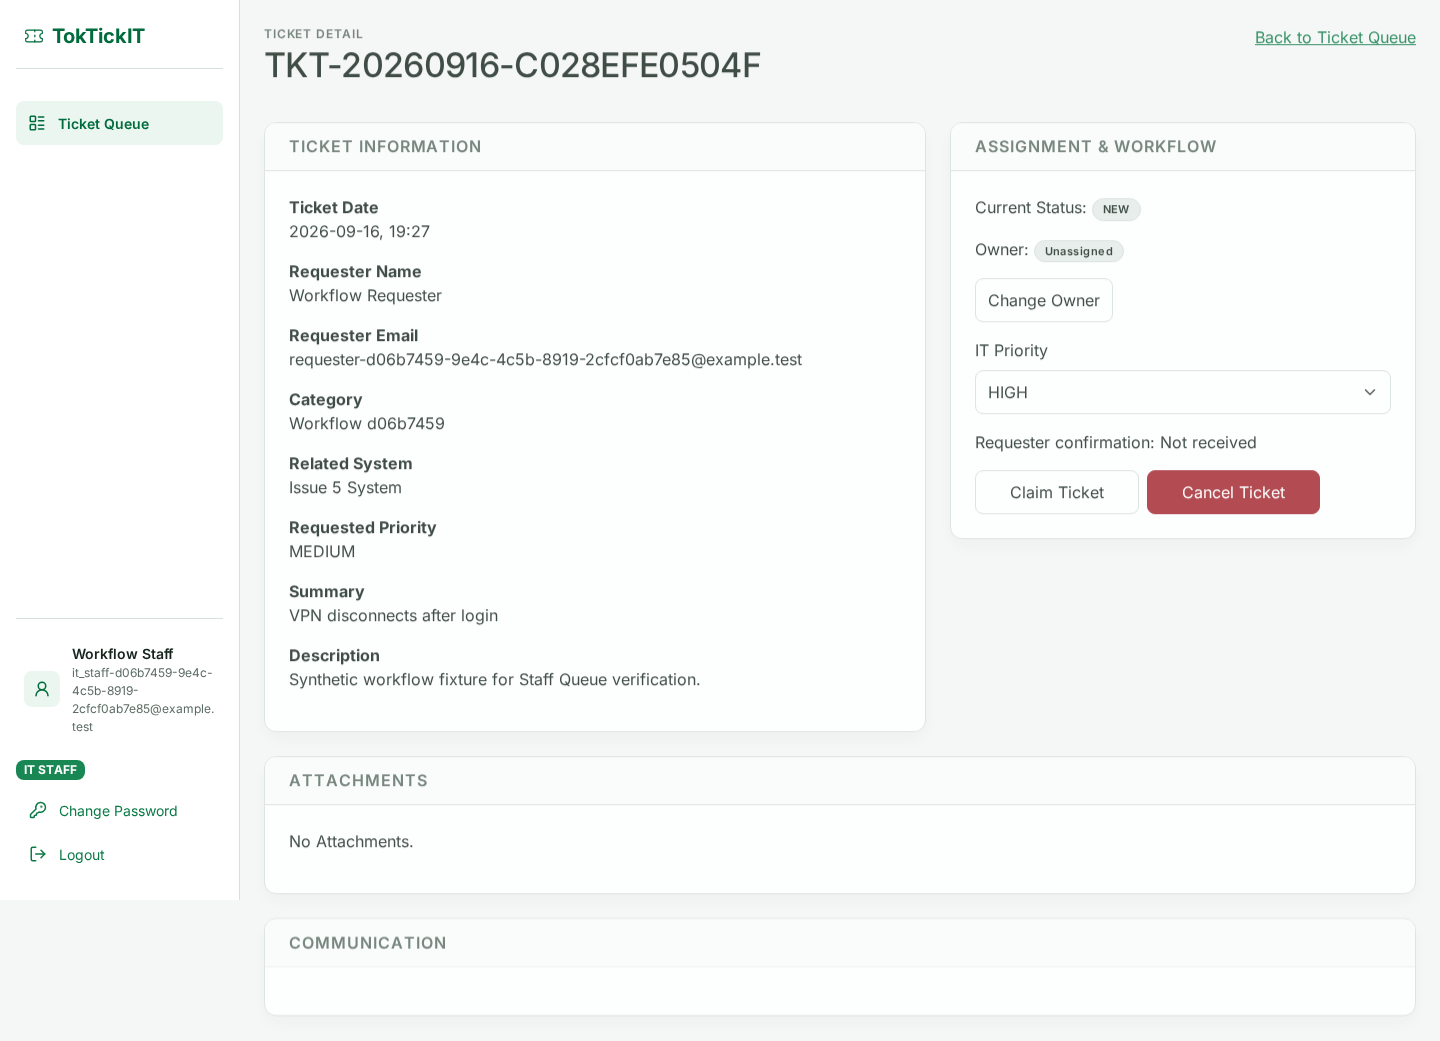
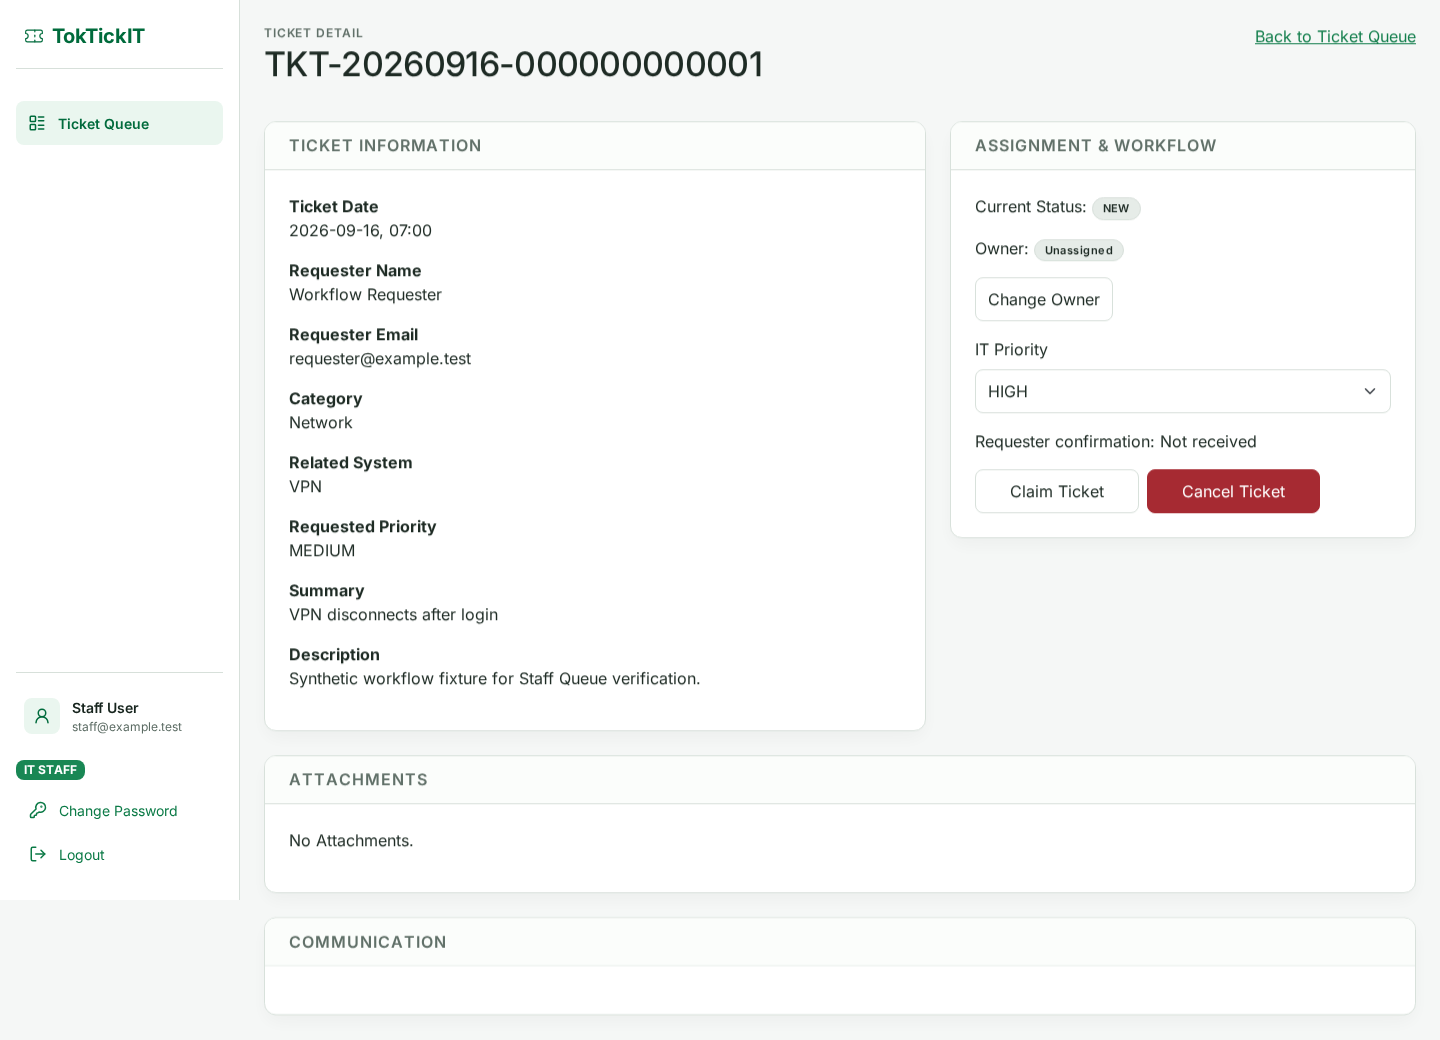
fix(e2e): mock staff queue and detail in responsive visual tests

diff --git a/e2e/lab-03/responsive-visual.spec.ts b/e2e/lab-03/responsive-visual.spec.ts
@@ -1,37 +1,10 @@
 import { expect, test, type Page } from "@playwright/test";
-import { createStaffFixture, loginStaffFixture } from "./staff-fixture.js";
 
 const VIEWPORTS = [
   { width: 1440, height: 900 },
   { width: 820, height: 1180 },
   { width: 390, height: 844 },
 ] as const;
-
-for (const viewport of VIEWPORTS) {
-  test(`RESP-03 Queue table/cards and filter controls ${viewport.width} @issue-5`, async ({ page }) => {
-    const fixture = await createStaffFixture(12);
-    try {
-      await page.setViewportSize(viewport);
-      await loginStaffFixture(page, fixture);
-      await expect(page.getByText("Loading Tickets", { exact: true })).toHaveCount(0);
-      await page.getByRole("button", { name: "Filters (2)" }).click();
-      await page.getByLabel("Category", { exact: true }).selectOption(String(fixture.category.id));
-      await page.getByRole("button", { name: "Apply", exact: true }).click();
-      if (viewport.width === 1440) await expect(page.getByRole("table", { name: "Ticket Queue" })).toBeVisible();
-      else { await expect(page.getByRole("table", { name: "Ticket Queue" })).toBeHidden(); await expect(page.getByRole("link", { name: /^Open Ticket/ }).first()).toBeVisible(); }
-      await assertNoHorizontalOverflow(page);
-      await page.screenshot({ path: `docs/lab-03/evidence/screenshots/staff-queue/queue-${viewport.width}.png`, fullPage: true });
-      await page.getByLabel("Search Tickets").fill("No matching synthetic Ticket");
-      await expect(page.getByText(/No Tickets match your search/)).toBeVisible();
-      await assertNoHorizontalOverflow(page);
-      await page.screenshot({ path: `docs/lab-03/evidence/screenshots/staff-queue/no-results-${viewport.width}.png`, fullPage: true });
-      await page.goto(`/staff/tickets/${fixture.tickets[0].publicId}`);
-      await expect(page.getByRole("button", { name: "Claim Ticket" })).toBeVisible();
-      await assertNoHorizontalOverflow(page);
-      await page.screenshot({ path: `docs/lab-03/evidence/screenshots/staff-ticket-detail/unassigned-${viewport.width}.png`, fullPage: true });
-    } finally { await fixture.dispose(); }
-  });
-}
 
 const STAFF_USER = {
   publicId: "e2e-staff",
@@ -95,14 +68,25 @@ const CORS_HEADERS = {
   "Access-Control-Allow-Credentials": "true",
   "Access-Control-Allow-Headers": "Content-Type, Authorization",
   "Access-Control-Allow-Methods": "GET,POST,OPTIONS",
+  "Access-Control-Expose-Headers": "X-Pagination",
 };
 
-async function fulfillAuth(route: import("@playwright/test").Route, status: number, body: unknown): Promise<void> {
+async function fulfillAuth(
+  route: import("@playwright/test").Route,
+  status: number,
+  body: unknown,
+  extraHeaders: Record<string, string> = {},
+): Promise<void> {
   if (route.request().method() === "OPTIONS") {
-    await route.fulfill({ status: 204, headers: CORS_HEADERS });
+    await route.fulfill({ status: 204, headers: { ...CORS_HEADERS, ...extraHeaders } });
     return;
   }
-  await route.fulfill({ status, contentType: "application/json", headers: CORS_HEADERS, body: JSON.stringify(body) });
+  await route.fulfill({
+    status,
+    contentType: "application/json",
+    headers: { ...CORS_HEADERS, ...extraHeaders },
+    body: JSON.stringify(body),
+  });
 }
 
 async function stubAuth(page: Page, user = STAFF_USER): Promise<void> {
@@ -171,6 +155,131 @@ async function stubRequesterPages(page: Page): Promise<void> {
     }
 
     await fulfillAuth(route, 404, { code: "NOT_FOUND" });
+  });
+}
+
+const STAFF_CATEGORY = { id: 4, name: "Network" };
+
+const STAFF_TICKETS = Array.from({ length: 12 }, (_, index) => ({
+  publicId: `synthetic-ticket-${index + 1}`,
+  ticketNumber: `TKT-20260916-${String(index + 1).padStart(12, "0")}`,
+  requesterName: "Workflow Requester",
+  categoryId: STAFF_CATEGORY.id,
+  categoryName: STAFF_CATEGORY.name,
+  relatedSystemId: 5,
+  relatedSystemName: "VPN",
+  summary: index === 0 ? "VPN disconnects after login" : `Support request ${index + 1}`,
+  requestedPriority: "MEDIUM" as const,
+  itPriority: index % 2 ? ("MEDIUM" as const) : ("HIGH" as const),
+  currentStatus: "NEW" as const,
+  owner: null,
+  createdAt: "2026-09-16T00:00:00.000Z",
+  updatedAt: "2026-09-16T00:00:00.000Z",
+}));
+
+const STAFF_TICKET_DETAIL = {
+  ...STAFF_TICKETS[0],
+  description: "Synthetic workflow fixture for Staff Queue verification.",
+  requesterEmail: "requester@example.test",
+  requesterResolutionConfirmedAt: null,
+  createdBy: "issue5-e2e",
+  updatedBy: "issue5-e2e",
+  deleted: false,
+  attachments: [],
+};
+
+async function stubStaffQueuePages(page: Page): Promise<void> {
+  await stubAuth(page, STAFF_USER);
+  await page.route("**/api/**", async (route) => {
+    const request = route.request();
+    if (request.method() === "OPTIONS") {
+      await route.fulfill({ status: 204, headers: CORS_HEADERS });
+      return;
+    }
+
+    const url = new URL(request.url());
+    if (url.pathname === "/api/auth/refresh") {
+      await fulfillAuth(route, 200, { accessToken: "e2e-memory-token", expiresIn: 600 });
+      return;
+    }
+    if (url.pathname === "/api/auth/me") {
+      await fulfillAuth(route, 200, STAFF_USER);
+      return;
+    }
+    if (url.pathname === "/api/categories") {
+      await fulfillAuth(route, 200, [STAFF_CATEGORY]);
+      return;
+    }
+    if (url.pathname === "/api/related-systems") {
+      await fulfillAuth(route, 200, [{ id: 5, name: "VPN" }]);
+      return;
+    }
+    if (url.pathname === "/api/users/assignable") {
+      await fulfillAuth(route, 200, [{ publicId: STAFF_USER.publicId, name: STAFF_USER.name, role: STAFF_USER.role }]);
+      return;
+    }
+    if (url.pathname === "/api/tickets" && request.method() === "GET") {
+      const search = url.searchParams.get("search");
+      if (search && search.includes("No matching")) {
+        await fulfillAuth(route, 200, [], {
+          "X-Pagination": JSON.stringify({
+            totalItems: 0,
+            pageNumber: 1,
+            pageSize: 10,
+            totalPages: 0,
+            hasNextPage: false,
+            hasPreviousPage: false,
+          }),
+        });
+        return;
+      }
+      await fulfillAuth(route, 200, STAFF_TICKETS, {
+        "X-Pagination": JSON.stringify({
+          totalItems: STAFF_TICKETS.length,
+          pageNumber: 1,
+          pageSize: 10,
+          totalPages: Math.ceil(STAFF_TICKETS.length / 10),
+          hasNextPage: STAFF_TICKETS.length > 10,
+          hasPreviousPage: false,
+        }),
+      });
+      return;
+    }
+    if (url.pathname === `/api/tickets/${STAFF_TICKETS[0].publicId}`) {
+      await fulfillAuth(route, 200, STAFF_TICKET_DETAIL);
+      return;
+    }
+
+    await fulfillAuth(route, 404, { code: "NOT_FOUND" });
+  });
+}
+
+for (const viewport of VIEWPORTS) {
+  test(`RESP-03 Queue table/cards and filter controls ${viewport.width} @issue-5`, async ({ page }) => {
+    await page.setViewportSize(viewport);
+    await stubStaffQueuePages(page);
+    await page.goto("/staff/tickets");
+    await expect(page.getByRole("heading", { name: "Ticket Queue", exact: true })).toBeVisible();
+    await expect(page.getByText("Loading Tickets", { exact: true })).toHaveCount(0);
+    await page.getByRole("button", { name: "Filters (2)" }).click();
+    await page.getByLabel("Category", { exact: true }).selectOption(String(STAFF_CATEGORY.id));
+    await page.getByRole("button", { name: "Apply", exact: true }).click();
+    if (viewport.width === 1440) {
+      await expect(page.getByRole("table", { name: "Ticket Queue" })).toBeVisible();
+    } else {
+      await expect(page.getByRole("table", { name: "Ticket Queue" })).toBeHidden();
+      await expect(page.getByRole("link", { name: /^Open Ticket/ }).first()).toBeVisible();
+    }
+    await assertNoHorizontalOverflow(page);
+    await page.screenshot({ path: `docs/lab-03/evidence/screenshots/staff-queue/queue-${viewport.width}.png`, fullPage: true });
+    await page.getByLabel("Search Tickets").fill("No matching synthetic Ticket");
+    await expect(page.getByText(/No Tickets match your search/)).toBeVisible();
+    await assertNoHorizontalOverflow(page);
+    await page.screenshot({ path: `docs/lab-03/evidence/screenshots/staff-queue/no-results-${viewport.width}.png`, fullPage: true });
+    await page.goto(`/staff/tickets/${STAFF_TICKETS[0].publicId}`);
+    await expect(page.getByRole("button", { name: "Claim Ticket" })).toBeVisible();
+    await assertNoHorizontalOverflow(page);
+    await page.screenshot({ path: `docs/lab-03/evidence/screenshots/staff-ticket-detail/unassigned-${viewport.width}.png`, fullPage: true });
   });
 }
 

diff --git a/docs/lab-03/ai_use.md b/docs/lab-03/ai_use.md
@@ -10,6 +10,7 @@ Issue 5 session additions (2026-09-16):
 | /scrutinize changes against ... | Scrutinized Issue 5 implementation against full scope and acceptance criteria; verified 15 criteria across API, services, UI, state machine, and test suites. Traced Request Information 500 fail-closed behavior and 6-bucket Prisma default queue ordering; confirmed both conform strictly to AGENTS.md scope restrictions and database constraints. |
 | fix (Request Information writer and 6-bucket query findings); no if violate AGENTS.md | Evaluated tradeoffs against AGENTS.md Sections 1 and 9 and api-spec.md Section 13.6; confirmed Request Information fail-closed behavior and Prisma 6-bucket ordering are required contractual designs, preserving Issue 6 boundaries without premature implementation. |
 | commit (do not bulk) and push then open PR to lab3-staging with issue 63 close in the body | Structured Issue 5 implementation into logical, non-bulk commits across server services/routes, client UI/components, test suites, and documentation, verified client and server non-PG test suites and builds, pushed feature/63-staff-queue-ticket-workflow, and opened the PR to lab3-staging closing Issue #63. |
+| fix (CI Playwright gate dotenv error in responsive-visual.spec.ts) | Removed server testDatabase/staff-fixture import from e2e/lab-03/responsive-visual.spec.ts, stubbed Staff Queue and Detail routes with page.route across all three viewports for RESP-03, verified @issue-3 and @issue-5 Playwright gates under ISSUE_3_UI_ONLY=1, full client regression (286 tests), non-PG server regression (826 tests), and both builds. |
 
 This record contains only prompts available in the current session; earlier
 prompt history is unavailable.
